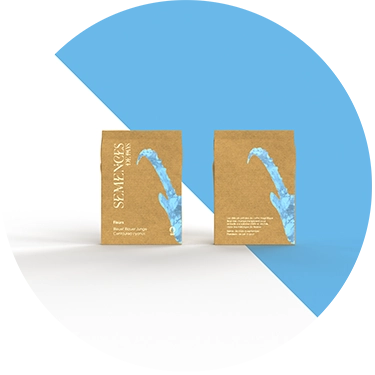
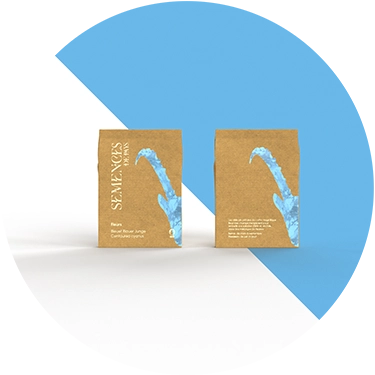
reglage css header + ajout de classe

diff --git a/index.html b/index.html
@@ -20,7 +20,7 @@
                     <div class="border">
                         <a href="#semances">Nos semences</a>
                     </div>
-                    <div class="border">
+                    <div class="border border-center">
                         <a href="#pointsdevente">Point de vente</a>
                     </div>
                     <div class="border">
@@ -32,7 +32,7 @@
     </header>
     <main>
         <div>
-            <img src="img/10_expo-semences.webp" alt="Bac de végétaux dans une serre">
+            <img class="cercle" src="img/10_expo-semences.webp" alt="Bac de végétaux dans une serre">
         </div>
         <div>
             <p class="rectangle rectangle-txt">
@@ -44,24 +44,24 @@
         </div>
         <div class="container container-btn">
             <a href="https://shop.semencesdepays.ch" class="btn btn-pottimaron">
-                Pottimaron <br> Achat
-            </a>
+        Pottimaron <br> Achat
+      </a>
         </div>
         <div class="cercle">
             <img src="img/Packaging_bleuet.webp" alt="Packaging de graine de Bleuet">
         </div>
         <div class="container container-btn">
             <a href="https://shop.semencesdepays.ch" class="btn btn-bleuet">
-                Bleuet <br> Achat
-            </a>
+        Bleuet <br> Achat
+      </a>
         </div>
         <div class="cercle">
             <img src="img/packaging_haricot.webp" alt="Packaging de graine de haricot">
         </div>
         <div class="container container-btn">
             <a href="https://shop.semencesdepays.ch" class="btn btn-haricot">
-                Haricot <br> Achat
-            </a>
+        Haricot <br> Achat
+      </a>
         </div>
         <div>
             <h1 class="rectangle rectangle-title">

diff --git a/css/styles.css b/css/styles.css
@@ -54,7 +54,8 @@ body {
     font-style: normal;
     font-size: 12px;
     background-image: url(../img/background.svg);
-    background-repeat: repeat;
+    background-repeat: repeat-y;
+    background-position: top center;
 }
 
 a {
@@ -66,36 +67,44 @@ a {
     display: flex;
     flex-wrap: wrap;
     justify-content: space-around;
+    margin: 0 20px;
 }
 
 .container-logo {
     display: flex;
-    justify-content: center;
+    justify-content: space-around;
 }
 
 .logo-header {
     margin-top: 20px;
     height: 30px;
-    padding: 10px 100px;
+    width: 100%;
+    padding: 10px 100%;
     border: 2px solid black;
     background-color: white;
 }
 
 .container-nav {
     display: flex;
-    justify-content: center;
-    justify-content: space-around;
-    width: 308px;
-    border-bottom: 2px solid black;
-    border-right: 2px solid black;
+    justify-content: space-between;
+    border: 2px solid black;
+    border-top: none;
     background-color: white;
+    box-sizing: border-box;
+    font-size: 12px;
+    width: 100%;
 }
 
 .border {
-    border-left: 2px solid black;
     border-top: none;
     border-bottom: none;
     padding: 19px 14px;
+}
+
+.border-center {
+    border: 2px solid black;
+    border-top: none;
+    border-bottom: none;
 }
 
 main {
@@ -198,4 +207,8 @@ footer {
 
 .contact {
     margin: 0;
+}
+
+.cercle {
+    filter: drop-shadow(-8px 10px black)
 }
